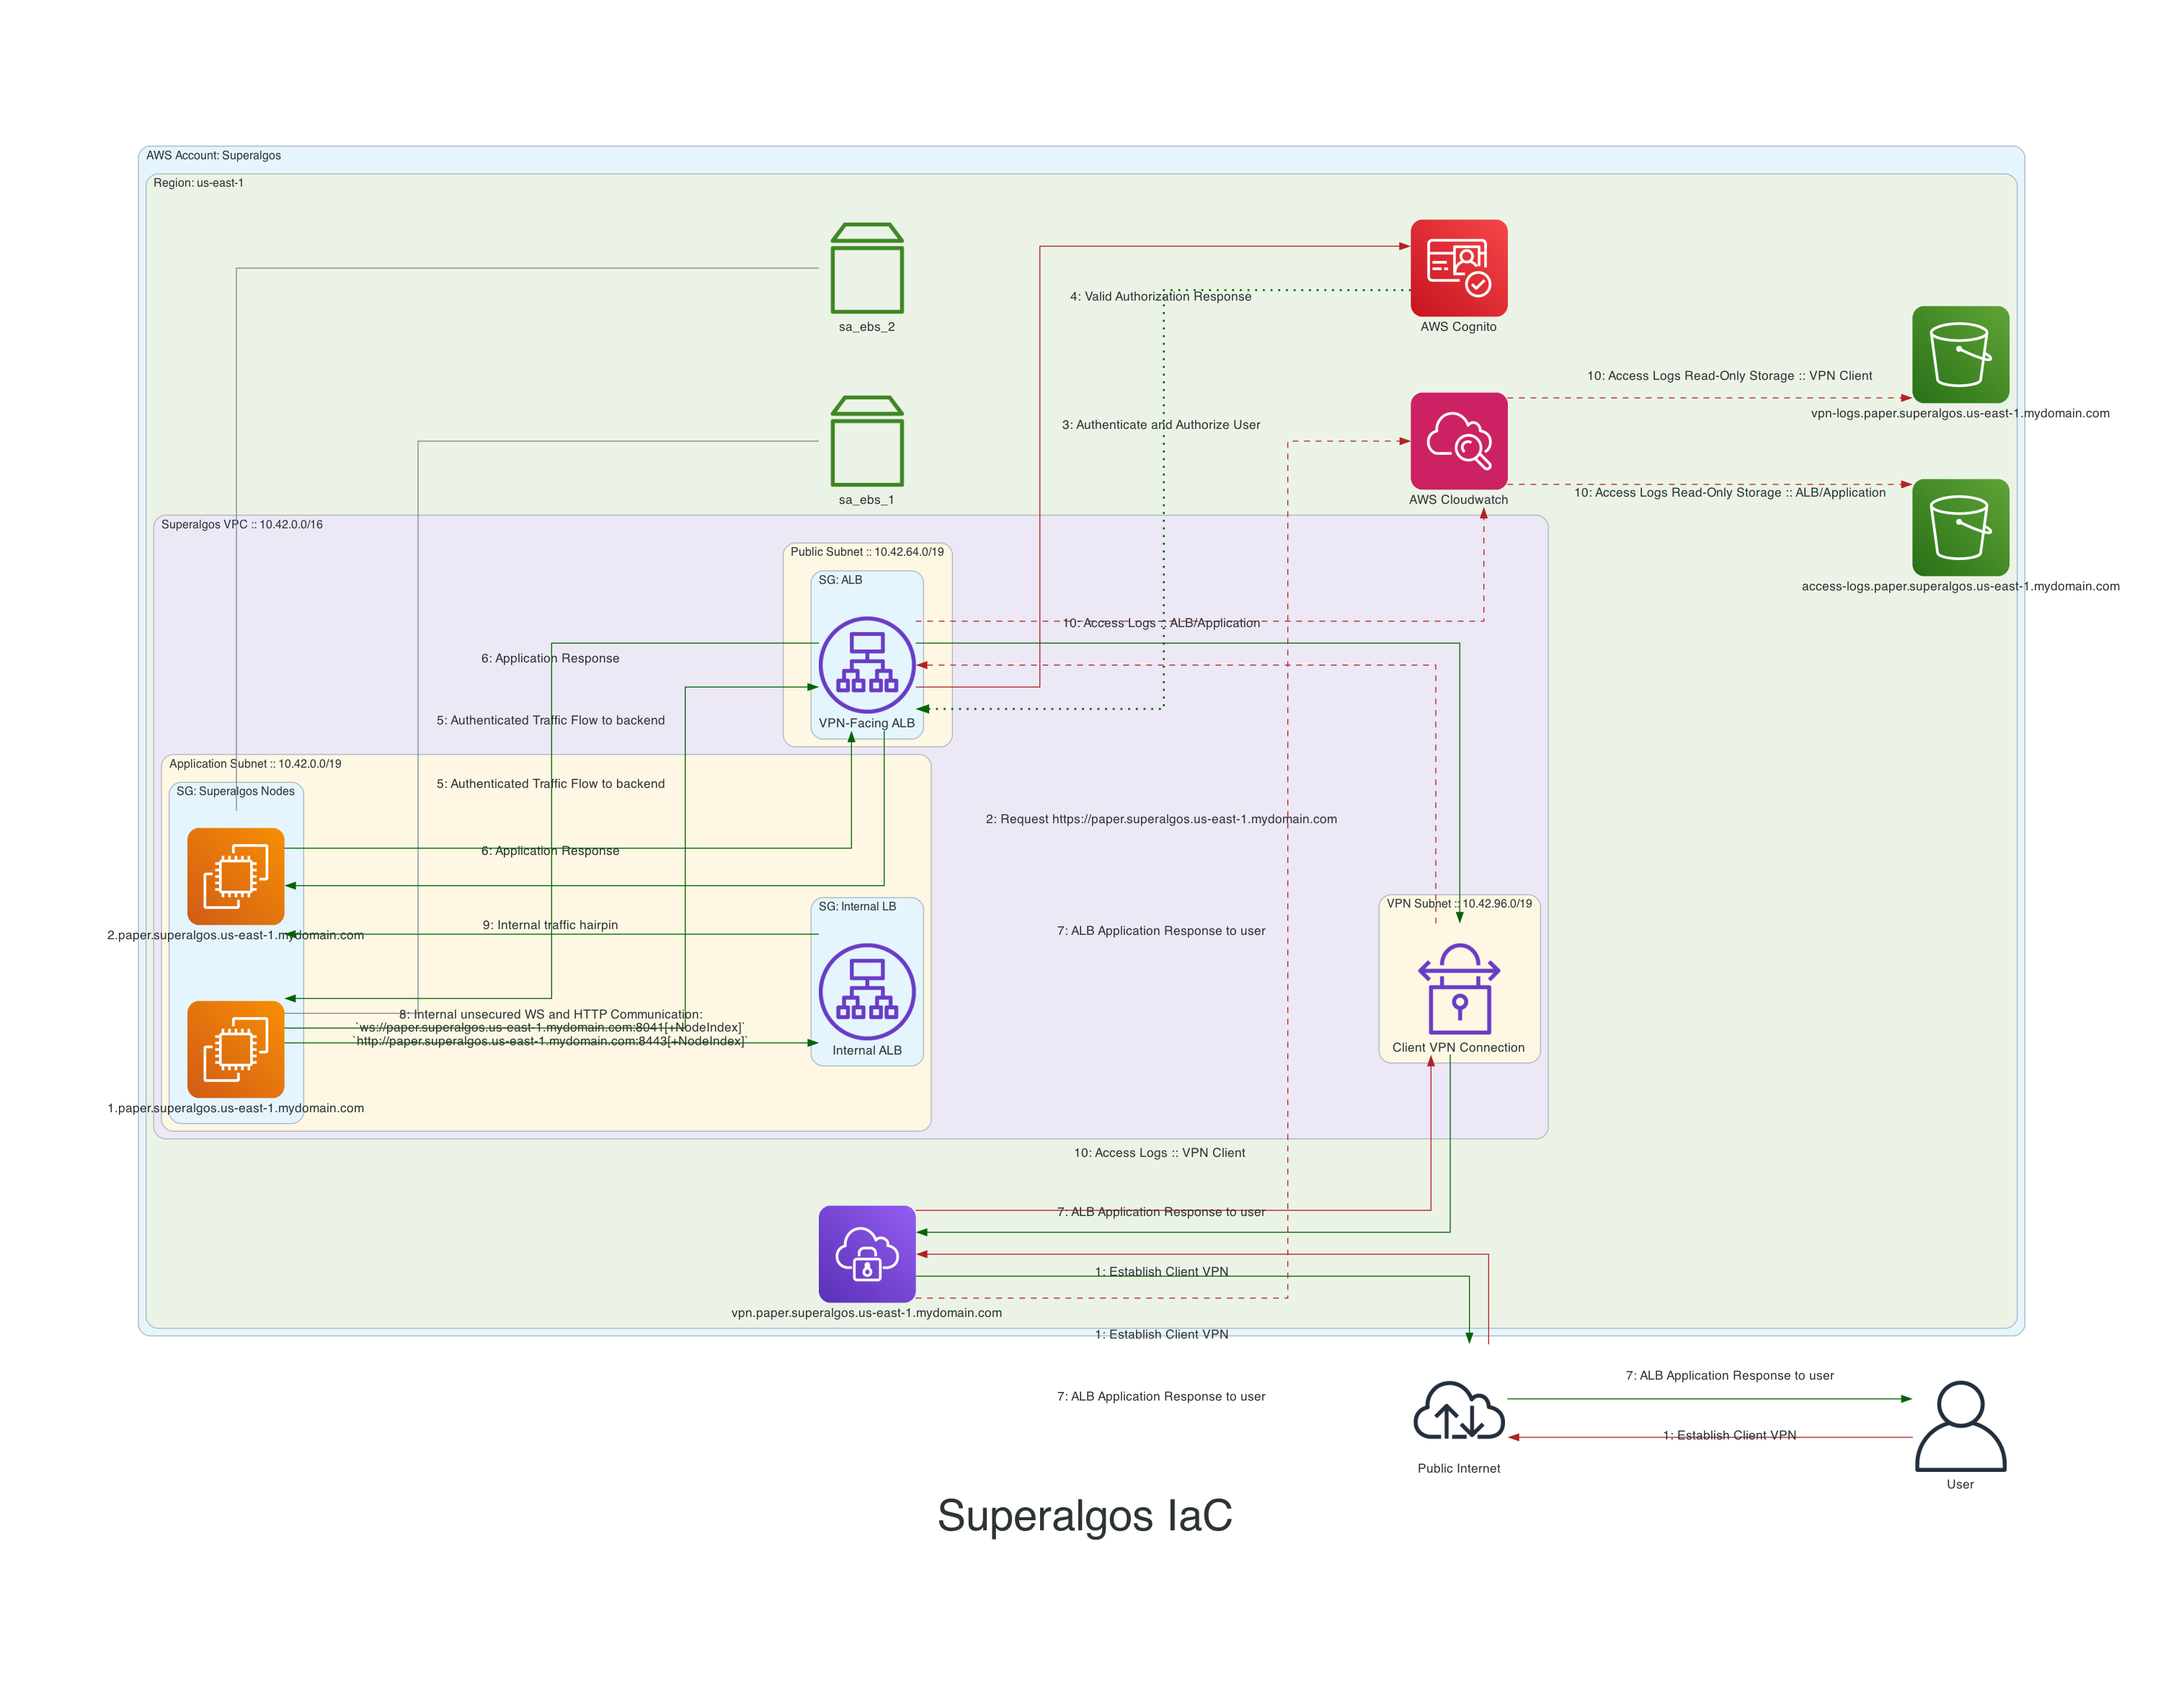
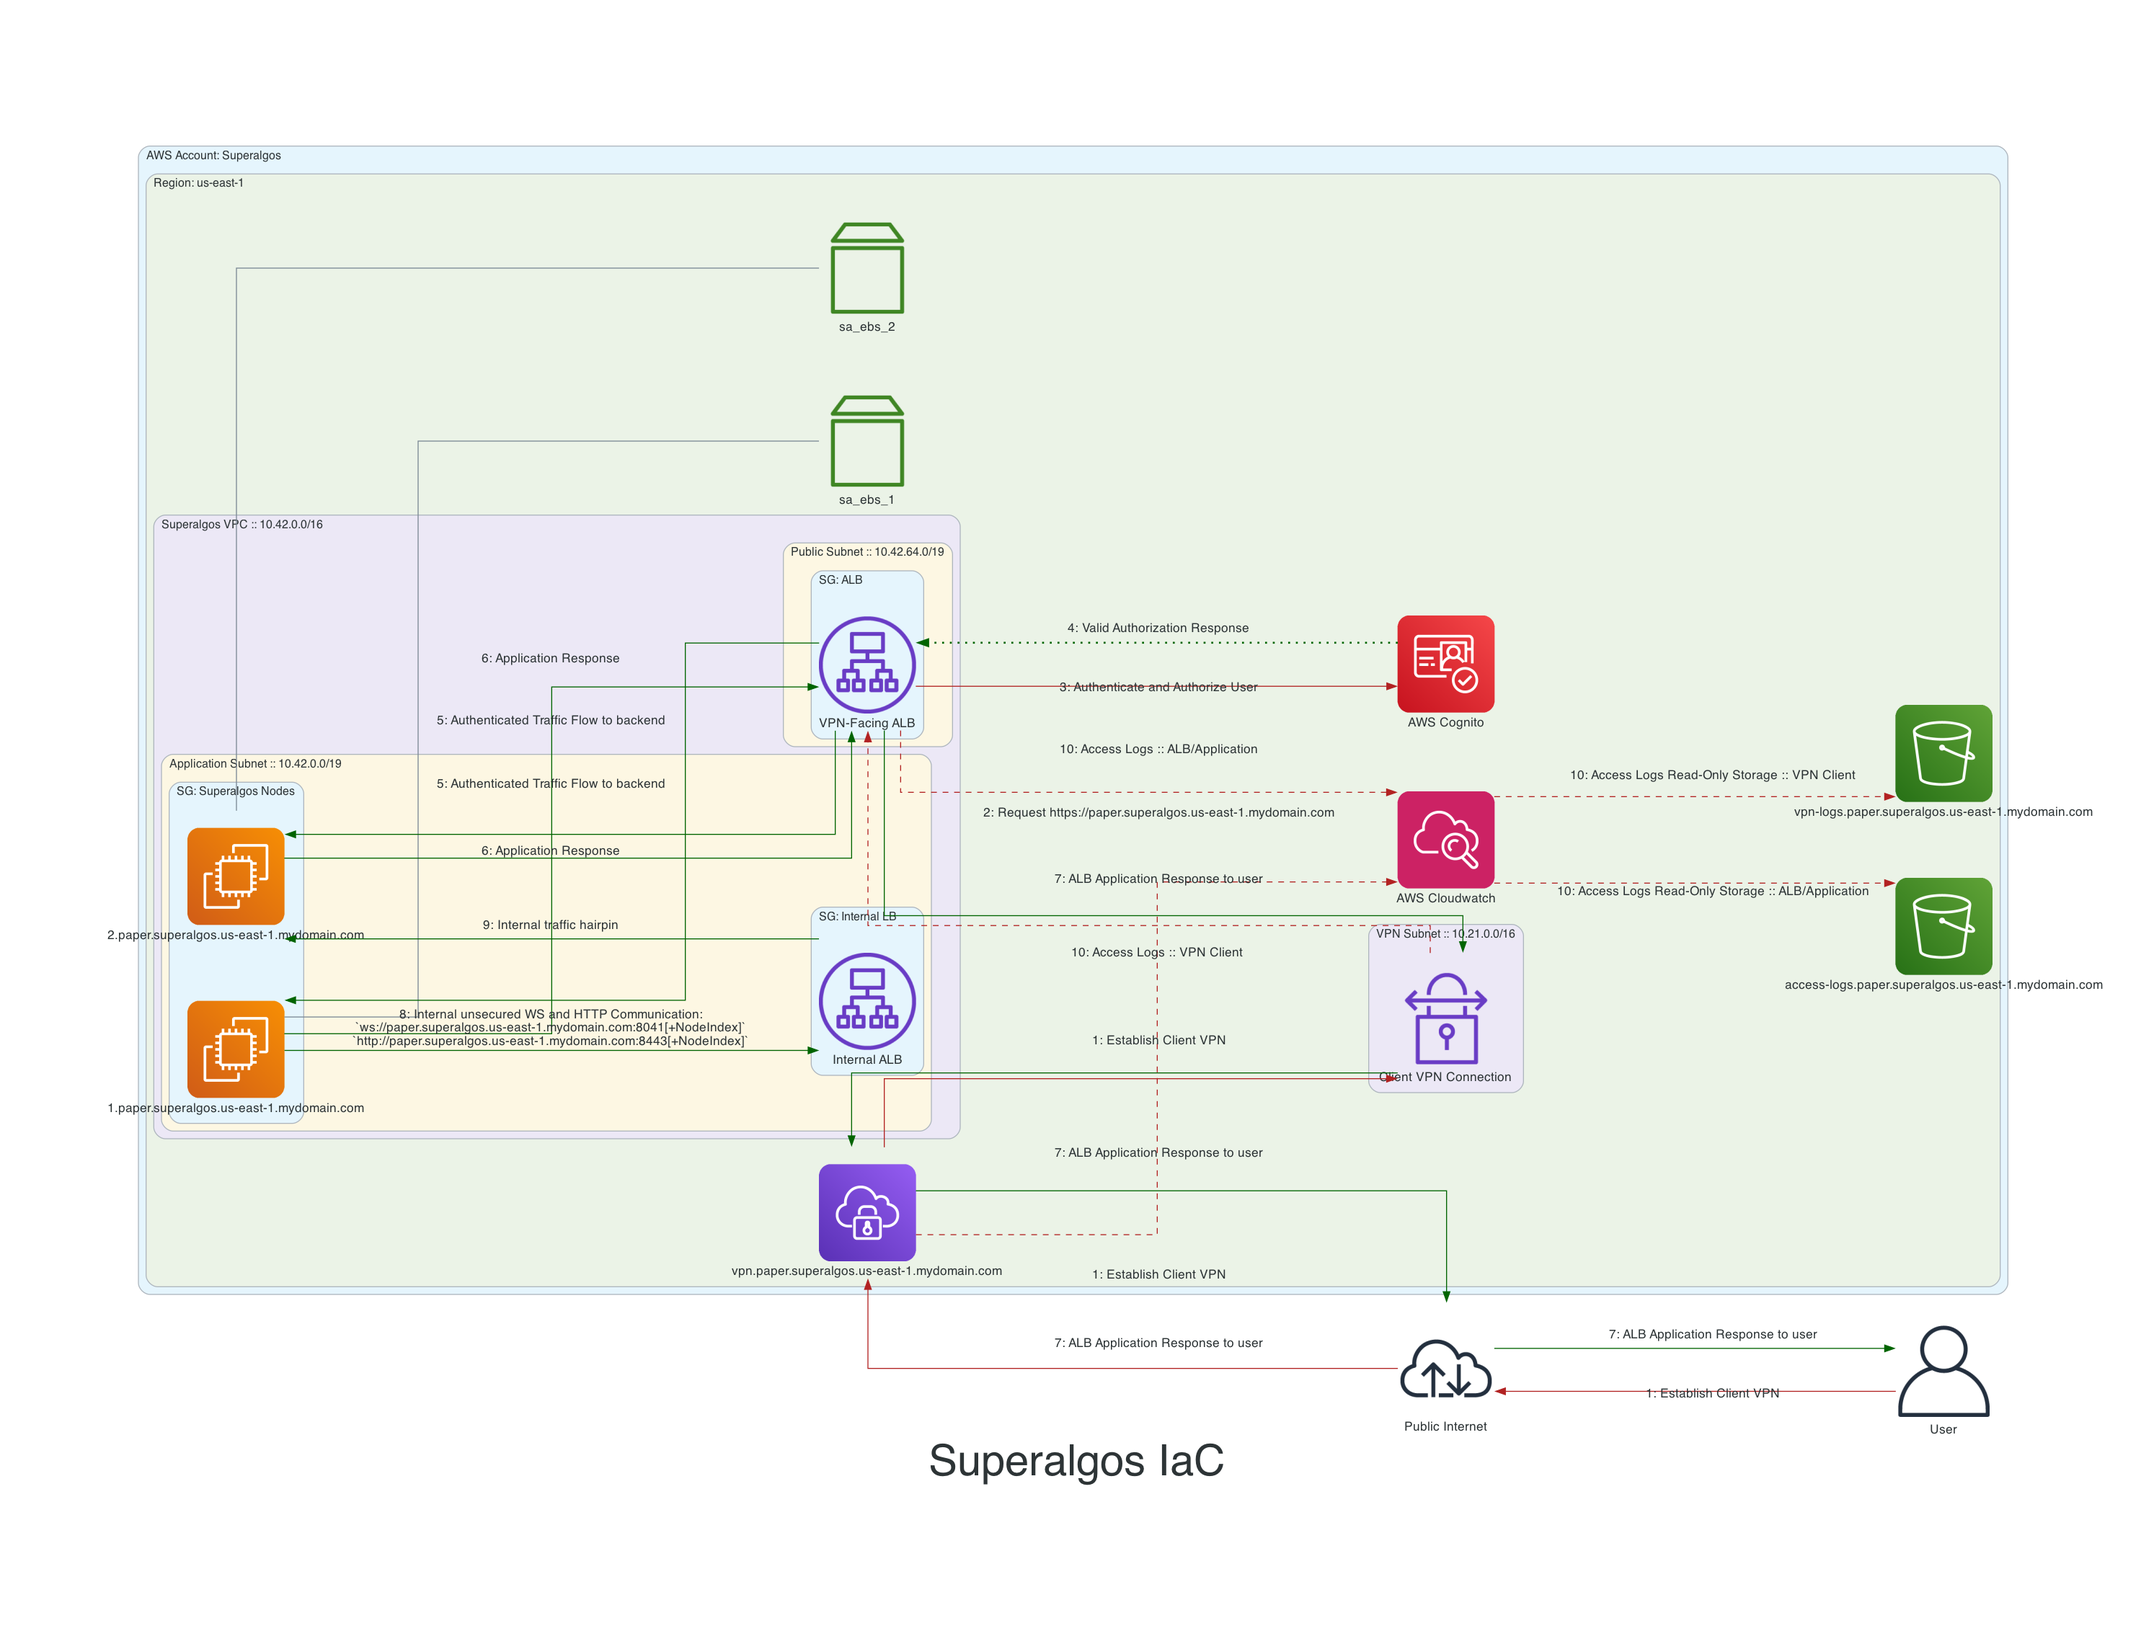
updated vpn flow in diagram; working on vpn module

diff --git a/scripts/diagram.py b/scripts/diagram.py
@@ -89,12 +89,19 @@ public_subnet_cidr = "10.42.64.0/19"
 # vpn_subdomain = "vpn"
 vpn_subdomain = "vpn"
 
+
+# The address range cannot overlap with the target network address range, 
+# the VPC address range or any of the routes that will be associated with the 
+# Client VPN endpoint. The client address range must be at minimum /22 and not 
+# greater than /12 CIDR block size. You cannot change the client address range 
+# after you create the Client VPN endpoint
+#
 # The vpn client subnets CIDR block, this should be large at least
 # twice the size as required client connections [cite](https://docs.aws.amazon.com/vpn/latest/clientvpn-admin/what-is.html#what-is-limitations)
 # and at least a /22 and no larger than a /12
 # Recommendation is a /19 or /20 for consistency
 # public_subnet_cidr = "10.42.64.0/19"
-vpn_subnet_cidr = "10.42.96.0/19"
+vpn_subnet_cidr = "10.21.0.0/16"
 
 
 # This will generate a mapping of instance details which will be used later
@@ -188,13 +195,13 @@ def authTrafficInfrastructure(elements, region, fqdn):
             elements["cognito"] = Cognito("AWS Cognito")
             elements["s3_access"] = S3(f"access-logs.{fqdn}")
             elements["s3_vpnlogs"] = S3(f"vpn-logs.{fqdn}")
+            elements["subnet_vpn"] = Cluster(f"VPN Subnet :: {vpn_subnet_cidr}")
             elements["vpn_endpoint"] = ClientVpn(f"{vpn_subdomain}.{fqdn}")
             elements["vpc_sa"] = Cluster(f"Superalgos VPC :: {vpc_cidr}")
             #
             with elements["vpc_sa"]:
                 elements["subnet_application"] = Cluster(f"Application Subnet :: {application_subnet_cidr}")
                 elements["subnet_public"] = Cluster(f"Public Subnet :: {public_subnet_cidr}")
-                elements["subnet_vpn"] = Cluster(f"VPN Subnet :: {vpn_subnet_cidr}")
                 # Public Subnet Objectes
                 with elements["subnet_public"]:
                     elements["sg_alb"] = Cluster("SG: ALB")
@@ -262,6 +269,7 @@ def managementInfrastructure(elements, region, fqdn):
             elements["cloud_watch"] = Cloudwatch("AWS Cloudwatch")
             elements["s3_bastion"] = S3(f"bastion-logs.{fqdn}")
             elements["s3_vpnlogs"] = S3(f"vpn-logs.{fqdn}")
+            elements["subnet_vpn"] = Cluster(f"VPN Subnet :: {vpn_subnet_cidr}")
             elements["vpn_endpoint"] = ClientVpn(f"{vpn_subdomain}.{fqdn}")
             elements["vpc_sa"] = Cluster(f"Superalgos VPC :: {vpc_cidr}")
             #
@@ -269,7 +277,6 @@ def managementInfrastructure(elements, region, fqdn):
                 elements["subnet_application"] = Cluster(f"Application Subnet :: {application_subnet_cidr}")
                 elements["subnet_bastion"] = Cluster(f"Bastion Subnet :: {bastion_subnet_cidr}")
                 elements["subnet_public"] = Cluster(f"Public Subnet :: {public_subnet_cidr}")
-                elements["subnet_vpn"] = Cluster(f"VPN Subnet :: {vpn_subnet_cidr}")
                 # Public Subnet Objectes
                 with elements["subnet_public"]:
                     elements["igw"] = InternetGateway("igw")
